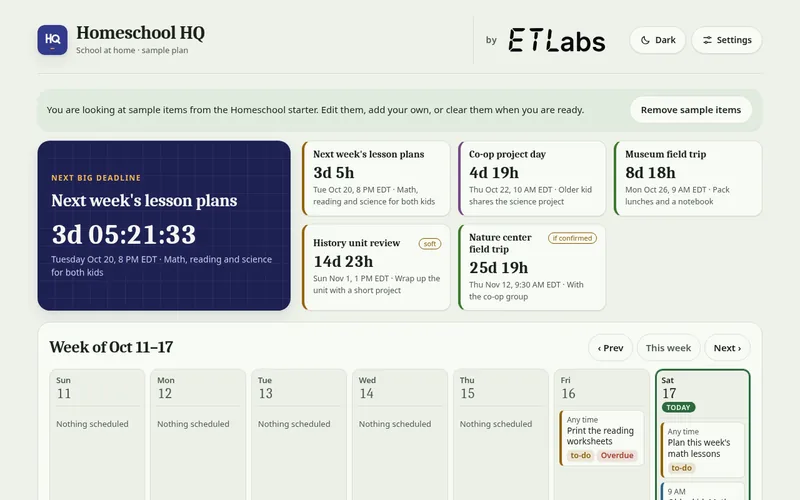
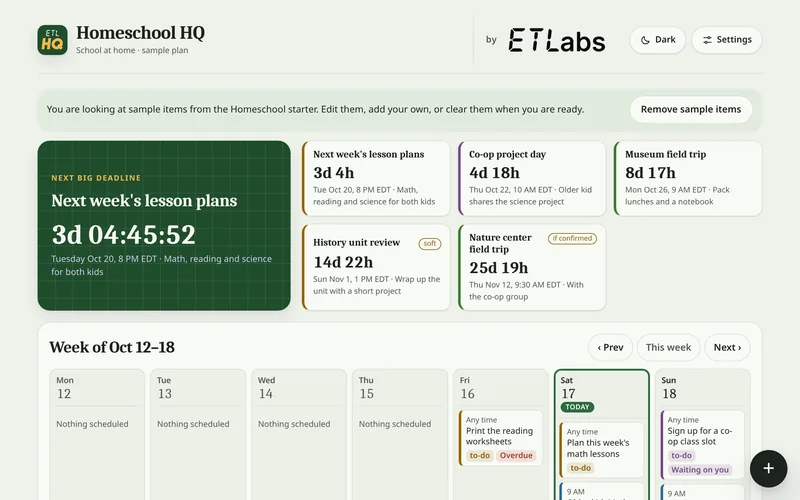
MyHQ: re-captured mockup screens from v0.3.0-combined-4 (Mon-first week, ETL badge); Design's 'Your data, your device' stamp on cards + /myhq phone shot; Writing's final card descriptions (MyHQ, Junior) + small print

diff --git a/products.html b/products.html
@@ -10,6 +10,7 @@
     <link rel="preload" href="/assets/fonts/inter-latin.woff2" as="font" type="font/woff2" crossorigin>
     <link rel="stylesheet" href="/assets/css/fonts.css">
     <link rel="stylesheet" href="assets/css/style.css">
+    <link rel="stylesheet" href="/assets/css/myhq-stamp.css">
 <script type="application/ld+json">{"@context": "https://schema.org", "@type": "ItemList", "name": "ET Labs products", "itemListElement": [{"@type": "ListItem", "position": 1, "name": "Skills for Vets", "url": "https://skillsforvets.org/"}, {"@type": "ListItem", "position": 2, "name": "SleepTight: DreamWrite", "url": "https://etlabs.app/apps/sleeptight/"}, {"@type": "ListItem", "position": 3, "name": "Total Cross", "url": "https://etlabs.app/apps/totalcross/"}, {"@type": "ListItem", "position": 4, "name": "Security+ Study", "url": "https://etlabs.app/study/"}, {"@type": "ListItem", "position": 5, "name": "Lattice\u00b3", "url": "https://etlabs.app/apps/lattice3/"}]}</script>
 <link rel="stylesheet" href="/assets/css/lattice-glass.css"><link rel="stylesheet" href="/assets/junior/junior.css"></head>
 <body>
@@ -101,8 +102,8 @@
                         </g>
                     </svg></div><div class="portfolio-copy"><p class="card-label">Free · Daily puzzle</p><h2 class="section-title">Total Cross</h2><p class="section-text">A daily number crossword where letters have values and every word must add up to its target. Three difficulty levels, one finishable puzzle a day.</p><div class="split-actions"><a href="/apps/totalcross/" class="primary-button">Play Total Cross</a></div></div></article>
 <article class="card portfolio-card portfolio-study"><div class="portfolio-media"><div class="study-preview" aria-hidden="true"><span>root@secplus:~$</span><strong>Security+<br>Study</strong><span>TERMS / SCENARIOS / CERTS</span></div></div><div class="portfolio-copy"><p class="card-label">Free quiz games</p><h2 class="section-title">Security+ Study</h2><p class="section-text">Practice selected CompTIA Security+ (SY0-701) topics with short rounds of terms, scenarios, and certificate anatomy. A study supplement you can use at your own pace.</p><div class="split-actions"><a href="/study/" class="primary-button">Start studying</a></div></div></article>
-<article class="card portfolio-card portfolio-myhq portfolio-myhq-devices"><div class="portfolio-media myhq-devices"><span class="myhq-example">Example data</span><div class="myhq-device myhq-device--desktop"><picture><source srcset="/assets/images/hq-product/card-desktop.avif" type="image/avif"><img src="/assets/images/hq-product/card-desktop.webp" width="800" height="500" loading="lazy" decoding="async" alt="ETLabs MyHQ on a desktop, Homeschool HQ with example deadlines and a week view."></picture></div><div class="myhq-device myhq-device--phone"><picture><source srcset="/assets/images/hq-product/card-phone.avif" type="image/avif"><img src="/assets/images/hq-product/card-phone.webp" width="320" height="693" loading="lazy" decoding="async" alt="ETLabs MyHQ on a phone, week view with example homeschool data."></picture></div></div><div class="portfolio-copy"><p class="card-label">Preview</p><div class="myhq-card-title"><img src="/assets/images/hq-product/myhq-icon-clay.svg" class="myhq-card-icon" width="44" height="44" alt=""><h2 class="section-title" data-product-name="myhq" data-name-form="full">ETLabs MyHQ</h2></div><p class="section-text">Your deadlines, week and to-dos on one page.</p><div class="split-actions"><a href="https://templates.hq-template.pages.dev/" class="primary-button" target="_blank" rel="noopener noreferrer">Open the preview <span aria-hidden="true">↗</span></a><a href="/myhq" data-product-link="myhq" class="secondary-button">Learn more</a></div></div></article>
-<article class="card portfolio-card junior-card" aria-labelledby="junior-title"><div class="portfolio-media jr-media jr-media--square" data-jr-media aria-hidden="true"><div class="jr-placeholder"><span class="jr-lockup"><img src="/assets/images/etlabs-wordmark.svg" alt="" width="1064" height="289"><span class="jr-type"><span class="t">Junior</span><span class="c"></span></span></span><span class="jr-stamp">Coming soon</span></div><video class="jr-video" autoplay muted loop playsinline preload="auto" poster="/assets/junior/junior-coming-soon-square-poster.png?v=3" aria-hidden="true" tabindex="-1"><source src="/assets/junior/junior-coming-soon-square.mp4?v=3" type="video/mp4"></video></div><div class="portfolio-copy"><p class="card-label">Concept · Coming soon</p><h2 class="section-title" id="junior-title">ET Labs Junior</h2><p class="section-text">AI learning for kids and parents, still taking shape at ET Labs.</p><p class="jr-coming-label">Coming:</p><ul class="jr-coming"><li>Teach the Robot by example</li><li>Story Builder, starting with your idea</li><li>Weekend AI Lessons for families</li><li>Parent Corner for grown-ups</li></ul><div class="split-actions"><a href="/products/junior/" class="secondary-button">Take a peek</a></div></div></article>
+<article class="card portfolio-card portfolio-myhq portfolio-myhq-devices"><div class="portfolio-media myhq-devices"><span class="myhq-example">Example data</span><div class="myhq-device myhq-device--desktop"><picture><source srcset="/assets/images/hq-product/card-desktop.avif" type="image/avif"><img src="/assets/images/hq-product/card-desktop.webp" width="800" height="500" loading="lazy" decoding="async" alt="ETLabs MyHQ on a desktop, Homeschool HQ with example deadlines and a week view."></picture></div><div class="myhq-device myhq-device--phone"><picture><source srcset="/assets/images/hq-product/card-phone.avif" type="image/avif"><img src="/assets/images/hq-product/card-phone.webp" width="320" height="693" loading="lazy" decoding="async" alt="ETLabs MyHQ on a phone, week view with example homeschool data."></picture></div><img class="myhq-stamp myhq-stamp--card myhq-stamp--animate" src="/assets/images/hq-product/myhq-stamp.svg" width="250" height="252" alt="Your data, your device. ETLabs just gives you the platform."></div><div class="portfolio-copy"><p class="card-label">Preview</p><div class="myhq-card-title"><img src="/assets/images/hq-product/myhq-icon-clay.svg" class="myhq-card-icon" width="44" height="44" alt=""><h2 class="section-title" data-product-name="myhq" data-name-form="full">ETLabs MyHQ</h2></div><!-- WRITING-SWAP: myhq-card-description (one element; same text on home + products) --><p class="section-text myhq-card-desc" data-copy-slot="myhq-card-description">Your deadlines, week and to-dos on one page, running on your device. Choose from 7 starters, List, Week or Cards layouts, and 5 colors.</p><p class="myhq-smallprint">Nothing leaves your device unless you choose to send it.</p><div class="split-actions"><a href="https://templates.hq-template.pages.dev/" class="primary-button" target="_blank" rel="noopener noreferrer">Open the preview <span aria-hidden="true">↗</span></a><a href="/myhq" data-product-link="myhq" class="secondary-button">Learn more</a></div></div></article>
+<article class="card portfolio-card junior-card" aria-labelledby="junior-title"><div class="portfolio-media jr-media jr-media--square" data-jr-media aria-hidden="true"><div class="jr-placeholder"><span class="jr-lockup"><img src="/assets/images/etlabs-wordmark.svg" alt="" width="1064" height="289"><span class="jr-type"><span class="t">Junior</span><span class="c"></span></span></span><span class="jr-stamp">Coming soon</span></div><video class="jr-video" autoplay muted loop playsinline preload="auto" poster="/assets/junior/junior-coming-soon-square-poster.png?v=3" aria-hidden="true" tabindex="-1"><source src="/assets/junior/junior-coming-soon-square.mp4?v=3" type="video/mp4"></video></div><div class="portfolio-copy"><p class="card-label">Concept · Coming soon</p><h2 class="section-title" id="junior-title">ET Labs Junior</h2><p class="section-text">Coming soon: a place where kids and parents explore AI together through games, stories and short lessons. Still taking shape at ET Labs.</p><p class="jr-coming-label">Coming:</p><ul class="jr-coming"><li>Teach the Robot by example</li><li>Story Builder, starting with your idea</li><li>Weekend AI Lessons for families</li><li>Parent Corner for grown-ups</li></ul><div class="split-actions"><a href="/products/junior/" class="secondary-button">Take a peek</a></div></div></article>
 <article class="card portfolio-card lattice-card" data-lattice-motion><div class="portfolio-media"><div class="glass-scene" aria-hidden="true"><div class="lattice-cube"><i class="face front"></i><i class="face back"></i><i class="face right"></i><i class="face left"></i><i class="face top"></i><i class="face bottom"></i></div></div></div><div class="portfolio-copy"><p class="card-label">Coming soon</p><h2 class="section-title">Lattice³</h2><div class="split-actions"><a href="/apps/lattice3/" class="secondary-button">Lattice³ <span aria-hidden="true">↗</span></a></div></div><button class="motion-toggle" type="button" aria-label="Pause cube animation" aria-pressed="false"><span aria-hidden="true">Ⅱ</span></button></article>
 </div>
             </div>

diff --git a/index.html b/index.html
@@ -17,6 +17,7 @@
     <link rel="preload" href="/assets/fonts/inter-latin.woff2" as="font" type="font/woff2" crossorigin>
     <link rel="stylesheet" href="/assets/css/fonts.css">
     <link rel="stylesheet" href="assets/css/style.css">
+    <link rel="stylesheet" href="/assets/css/myhq-stamp.css">
 <link rel="stylesheet" href="/assets/css/lattice-glass.css"><link rel="stylesheet" href="/assets/junior/junior.css"></head>
 <body>
 <a class="skip-link" href="#main-content">Skip to content</a>
@@ -124,8 +125,8 @@
                         </g>
                     </svg></div><div class="portfolio-copy"><p class="card-label">Free · Daily puzzle</p><h2 class="section-title">Total Cross</h2><p class="section-text">A daily number crossword where letters have values and every word must add up to its target. Three difficulty levels, one finishable puzzle a day.</p><div class="split-actions"><a href="/apps/totalcross/" class="primary-button">Play Total Cross</a></div></div></article>
 <article class="card portfolio-card portfolio-study"><div class="portfolio-media"><div class="study-preview" aria-hidden="true"><span>root@secplus:~$</span><strong>Security+<br>Study</strong><span>TERMS / SCENARIOS / CERTS</span></div></div><div class="portfolio-copy"><p class="card-label">Free quiz games</p><h2 class="section-title">Security+ Study</h2><p class="section-text">Practice selected CompTIA Security+ (SY0-701) topics with short rounds of terms, scenarios, and certificate anatomy. A study supplement you can use at your own pace.</p><div class="split-actions"><a href="/study/" class="primary-button">Start studying</a></div></div></article>
-<article class="card portfolio-card portfolio-myhq portfolio-myhq-devices"><div class="portfolio-media myhq-devices"><span class="myhq-example">Example data</span><div class="myhq-device myhq-device--desktop"><picture><source srcset="/assets/images/hq-product/card-desktop.avif" type="image/avif"><img src="/assets/images/hq-product/card-desktop.webp" width="800" height="500" loading="lazy" decoding="async" alt="ETLabs MyHQ on a desktop, Homeschool HQ with example deadlines and a week view."></picture></div><div class="myhq-device myhq-device--phone"><picture><source srcset="/assets/images/hq-product/card-phone.avif" type="image/avif"><img src="/assets/images/hq-product/card-phone.webp" width="320" height="693" loading="lazy" decoding="async" alt="ETLabs MyHQ on a phone, week view with example homeschool data."></picture></div></div><div class="portfolio-copy"><p class="card-label">Preview</p><div class="myhq-card-title"><img src="/assets/images/hq-product/myhq-icon-clay.svg" class="myhq-card-icon" width="44" height="44" alt=""><h2 class="section-title" data-product-name="myhq" data-name-form="full">ETLabs MyHQ</h2></div><p class="section-text">Your deadlines, week and to-dos on one page.</p><div class="split-actions"><a href="https://templates.hq-template.pages.dev/" class="primary-button" target="_blank" rel="noopener noreferrer">Open the preview <span aria-hidden="true">↗</span></a><a href="/myhq" data-product-link="myhq" class="secondary-button">Learn more</a></div></div></article>
-<article class="card portfolio-card junior-card" aria-labelledby="junior-title"><div class="portfolio-media jr-media jr-media--square" data-jr-media aria-hidden="true"><div class="jr-placeholder"><span class="jr-lockup"><img src="/assets/images/etlabs-wordmark.svg" alt="" width="1064" height="289"><span class="jr-type"><span class="t">Junior</span><span class="c"></span></span></span><span class="jr-stamp">Coming soon</span></div><video class="jr-video" autoplay muted loop playsinline preload="auto" poster="/assets/junior/junior-coming-soon-square-poster.png?v=3" aria-hidden="true" tabindex="-1"><source src="/assets/junior/junior-coming-soon-square.mp4?v=3" type="video/mp4"></video></div><div class="portfolio-copy"><p class="card-label">Concept · Coming soon</p><h2 class="section-title" id="junior-title">ET Labs Junior</h2><p class="section-text">AI learning for kids and parents, still taking shape at ET Labs.</p><p class="jr-coming-label">Coming:</p><ul class="jr-coming"><li>Teach the Robot by example</li><li>Story Builder, starting with your idea</li><li>Weekend AI Lessons for families</li><li>Parent Corner for grown-ups</li></ul><div class="split-actions"><a href="/products/junior/" class="secondary-button">Take a peek</a></div></div></article>
+<article class="card portfolio-card portfolio-myhq portfolio-myhq-devices"><div class="portfolio-media myhq-devices"><span class="myhq-example">Example data</span><div class="myhq-device myhq-device--desktop"><picture><source srcset="/assets/images/hq-product/card-desktop.avif" type="image/avif"><img src="/assets/images/hq-product/card-desktop.webp" width="800" height="500" loading="lazy" decoding="async" alt="ETLabs MyHQ on a desktop, Homeschool HQ with example deadlines and a week view."></picture></div><div class="myhq-device myhq-device--phone"><picture><source srcset="/assets/images/hq-product/card-phone.avif" type="image/avif"><img src="/assets/images/hq-product/card-phone.webp" width="320" height="693" loading="lazy" decoding="async" alt="ETLabs MyHQ on a phone, week view with example homeschool data."></picture></div><img class="myhq-stamp myhq-stamp--card myhq-stamp--animate" src="/assets/images/hq-product/myhq-stamp.svg" width="250" height="252" alt="Your data, your device. ETLabs just gives you the platform."></div><div class="portfolio-copy"><p class="card-label">Preview</p><div class="myhq-card-title"><img src="/assets/images/hq-product/myhq-icon-clay.svg" class="myhq-card-icon" width="44" height="44" alt=""><h2 class="section-title" data-product-name="myhq" data-name-form="full">ETLabs MyHQ</h2></div><!-- WRITING-SWAP: myhq-card-description (one element; same text on home + products) --><p class="section-text myhq-card-desc" data-copy-slot="myhq-card-description">Your deadlines, week and to-dos on one page, running on your device. Choose from 7 starters, List, Week or Cards layouts, and 5 colors.</p><p class="myhq-smallprint">Nothing leaves your device unless you choose to send it.</p><div class="split-actions"><a href="https://templates.hq-template.pages.dev/" class="primary-button" target="_blank" rel="noopener noreferrer">Open the preview <span aria-hidden="true">↗</span></a><a href="/myhq" data-product-link="myhq" class="secondary-button">Learn more</a></div></div></article>
+<article class="card portfolio-card junior-card" aria-labelledby="junior-title"><div class="portfolio-media jr-media jr-media--square" data-jr-media aria-hidden="true"><div class="jr-placeholder"><span class="jr-lockup"><img src="/assets/images/etlabs-wordmark.svg" alt="" width="1064" height="289"><span class="jr-type"><span class="t">Junior</span><span class="c"></span></span></span><span class="jr-stamp">Coming soon</span></div><video class="jr-video" autoplay muted loop playsinline preload="auto" poster="/assets/junior/junior-coming-soon-square-poster.png?v=3" aria-hidden="true" tabindex="-1"><source src="/assets/junior/junior-coming-soon-square.mp4?v=3" type="video/mp4"></video></div><div class="portfolio-copy"><p class="card-label">Concept · Coming soon</p><h2 class="section-title" id="junior-title">ET Labs Junior</h2><p class="section-text">Coming soon: a place where kids and parents explore AI together through games, stories and short lessons. Still taking shape at ET Labs.</p><p class="jr-coming-label">Coming:</p><ul class="jr-coming"><li>Teach the Robot by example</li><li>Story Builder, starting with your idea</li><li>Weekend AI Lessons for families</li><li>Parent Corner for grown-ups</li></ul><div class="split-actions"><a href="/products/junior/" class="secondary-button">Take a peek</a></div></div></article>
 <article class="card portfolio-card lattice-card" data-lattice-motion><div class="portfolio-media"><div class="glass-scene" aria-hidden="true"><div class="lattice-cube"><i class="face front"></i><i class="face back"></i><i class="face right"></i><i class="face left"></i><i class="face top"></i><i class="face bottom"></i></div></div></div><div class="portfolio-copy"><p class="card-label">Coming soon</p><h2 class="section-title">Lattice³</h2><div class="split-actions"><a href="/apps/lattice3/" class="secondary-button">Lattice³ <span aria-hidden="true">↗</span></a></div></div><button class="motion-toggle" type="button" aria-label="Pause cube animation" aria-pressed="false"><span aria-hidden="true">Ⅱ</span></button></article>
 </div>
 

diff --git a/assets/css/myhq-stamp.css b/assets/css/myhq-stamp.css
@@ -1,0 +1,25 @@
+/* etlabs.app: MyHQ "Your data, your device" stamp (Design, Oct 17 2026; HANDOFF.md section B).
+   Image: /assets/images/hq-product/myhq-stamp.svg (light stamp only; the site has no dark mode).
+   Accessible name lives on the <img alt>; one stamp per placement; MyHQ elements only. */
+.myhq-stamp{position:absolute;z-index:2;display:block;height:auto;aspect-ratio:250/252;transform:rotate(6deg);pointer-events:none;user-select:none}
+
+/* /myhq page: hangs off the phone screenshot's top-right corner (Example data pill is top-left). */
+.myhq-shot-anchor{position:relative;justify-self:center;width:100%;max-width:340px}
+.myhq-shot-anchor>.myhq-shot--phone{max-width:none}
+.myhq-stamp--page{width:156px;top:-34px;right:-52px}
+@media(max-width:900px){.myhq-stamp--page{width:132px;top:-28px;right:-18px}}
+@media(max-width:600px){.myhq-stamp--page{width:112px;top:-24px;right:-6px}}
+
+/* Home + /products MyHQ card: top-right of the device-mockup panel (Example data pill is top-left).
+   Beats the generic .portfolio-media>img rule (100% size + padding). */
+.portfolio-myhq-devices .portfolio-media>img.myhq-stamp--card{width:128px;height:auto;max-height:none;padding:0;object-fit:fill;top:14px;right:14px;left:auto;z-index:4}
+@media(max-width:720px){.portfolio-myhq-devices .portfolio-media>img.myhq-stamp--card{width:108px;top:10px;right:10px}}
+
+/* Small print under the card description */
+.myhq-smallprint{margin:-12px 0 24px;font-size:.9rem;line-height:1.5;color:#5a5650}
+
+@media (prefers-reduced-motion:no-preference){
+  .myhq-stamp--animate{animation:myhq-stamp-in .5s cubic-bezier(.2,.9,.25,1.25) .3s both}
+  @keyframes myhq-stamp-in{0%{opacity:0;transform:rotate(-8deg) scale(1.35)}60%{opacity:1;transform:rotate(8deg) scale(.96)}100%{opacity:1;transform:rotate(6deg) scale(1)}}
+}
+@media print{.myhq-stamp{display:none}}

diff --git a/myhq.html b/myhq.html
@@ -15,6 +15,7 @@
     <link rel="preload" href="/assets/fonts/inter-latin.woff2" as="font" type="font/woff2" crossorigin>
     <link rel="stylesheet" href="/assets/css/fonts.css">
     <link rel="stylesheet" href="/assets/css/style.css">
+    <link rel="stylesheet" href="/assets/css/myhq-stamp.css">
 </head>
 <body data-product-title>
 <a class="skip-link" href="#main-content">Skip to content</a>
@@ -73,7 +74,7 @@
                         <p class="section-text"><strong>No account, no tracking: what you type stays on your device, and ET Labs never sees it.</strong></p>
                         <div class="split-actions"><a href="https://templates.hq-template.pages.dev/" class="primary-button" target="_blank" rel="noopener noreferrer">Open the preview <span aria-hidden="true">↗</span></a></div>
                     </div>
-                    <figure class="myhq-shot myhq-shot--phone"><span class="myhq-example">Example data</span><img src="/assets/images/hq-product/board-phone.webp" width="600" height="1120" alt="MyHQ on a phone with example data: deadlines, this week and to-dos on one page." data-product-alt="myhq"></figure>
+                    <div class="myhq-shot-anchor"><figure class="myhq-shot myhq-shot--phone"><span class="myhq-example">Example data</span><img src="/assets/images/hq-product/board-phone.webp" width="600" height="1120" alt="MyHQ on a phone with example data: deadlines, this week and to-dos on one page." data-product-alt="myhq"></figure><img class="myhq-stamp myhq-stamp--page myhq-stamp--animate" src="/assets/images/hq-product/myhq-stamp.svg" width="250" height="252" alt="Your data, your device. ETLabs just gives you the platform."></div>
                 </div>
 
                 <section class="myhq-block" aria-labelledby="myhq-tpl-h">
